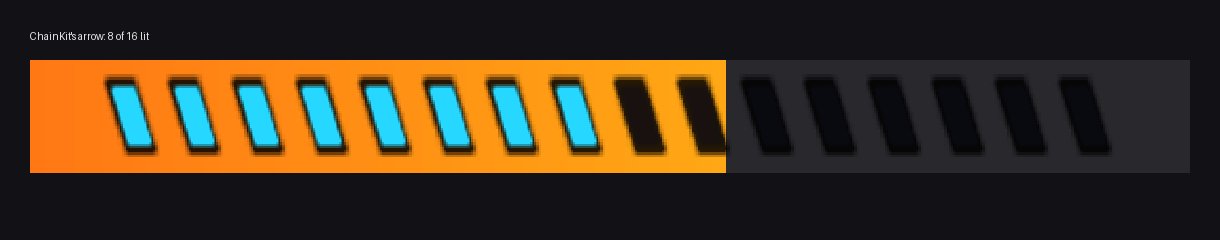
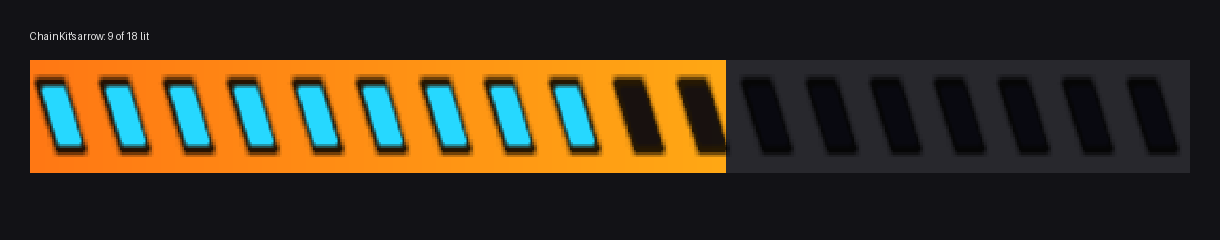
Arrow row fills the boost bar edge to edge (count and margin are settings)
The 16 arrows started 19.5 and ended 19.5 design units inside the 290-unit bar.
The row now spans the bar: first / last arrow 'arrow_margin' (default 2) from
the bar's ends, 'arrow_count' arrows (default 18, about the old pitch), pitch
computed from the bar rectangle the game passes (so it follows any HUD scale /
widescreen patch). The lit share is unchanged (lit = arrows / pool x count).
Lit and unlit colours are not swapped: in the user's screenshot all arrows were
lit; the ones under the bar's fire overlay look white.

Data version 10. Tests: positions edge to edge, a Revenge-like 16 / 19.5 layout,
count capped at 32; README preview with 18 arrows.

Changed region(s): [[0.0, 0.2917, 0.5295, 0.6708], [0.9033, 0.3208, 0.9656, 0.6417]]

diff --git a/chainkit/cave.py b/chainkit/cave.py
@@ -70,7 +70,7 @@ NAMES = 0xEF0            # message names (ASCII; after the mode table)
 SCORN = 0x3C0            # shadow quad corners (32 bytes)
 MSGTAB = 0x400           # relocated + extended message table
 MAGIC = b"CHAINKIT"
-VERSION = 9              # 9: SUPERCHARGE LOST always; 8: release = no button while the player drives; 7: debug message ids moved to free ids; 6: autopilot boost start refused; 3: per-mode switches, per-action fill factors, label/hint switches; 4: BTN hook;
+VERSION = 10             # 10: arrow count / margins (edge to edge); 9: SUPERCHARGE LOST always; 8: release = no button while the player drives; 7: debug message ids moved to free ids; 6: autopilot boost start refused; 3: per-mode switches, per-action fill factors, label/hint switches; 4: BTN hook;
                          # 5: button read from the pad, checked every frame
 
 # (name, offset in G_TUNE block, type, default, help)
@@ -101,6 +101,8 @@ TUNABLES = [
     ("arrows_slam", 0xE48 - G - G_TUNE, "f", 1.0 / 6, "arrows per SLAM while supercharge-boosting (fraction of the arrows)"),
     ("arrows_takedown", 0xE74 - G - G_TUNE, "f", 1.0, "arrows per TAKEDOWN while supercharged (fraction of the arrows)"),
     ("modes", 0xE70 - G - G_TUNE, "i", 0xFF, "modes with the mod (bits, see MODES); Crash mode and online are always vanilla"),
+    ("arrow_count", 0xE78 - G - G_TUNE, "i", 18, "number of arrows drawn over the bar (look only; 18 fill it edge to edge)"),
+    ("arrow_margin", 0xE7C - G - G_TUNE, "f", 2.0, "space between the bar's ends and the first / last arrow (bar design units of 290)"),
     ("full_hold_time", 0x2B8 - G - G_TUNE, "f", 0.0, "a bar that becomes full while boosting supercharges after this many seconds (0 = at once)"),
     ("resuper_cooldown", 0x2BC - G - G_TUNE, "f", 3.0, "no new supercharge for this many seconds after one was lost"),
     ("full_threshold", 0x2C0 - G - G_TUNE, "f", 0.98, "the bar counts as full from this fraction of max (boosting drains every frame after the award)"),
@@ -1123,10 +1125,15 @@ def build_code(lay):
         a.lw("t6", 0, "t3"); a.sw("t6", 0, "t4"); a.addiu("t3", "t3", 4); a.addiu("t5", "t5", -1)
         a.bnez("t5", "H_tcopy"); a.addiu("t4", "t4", 4)
     a.jal(A["SETTEX"]); a.nop()
-    # lit = arrows / (half * max) * 16
+    # n = arrow_count (1..32); lit = arrows / (half * max) * n
+    a.mem("lw", "t2", A["REGION"] + 0xE78, "t2")
+    a.slti("t1", "t2", 1); a.beqz("t1", "H_n1"); a.nop(); a.li("t2", 1)
+    a.label("H_n1")
+    a.slti("t1", "t2", 33); a.bnez("t1", "H_n2"); a.nop(); a.li("t2", 32)
+    a.label("H_n2")
     a.lwc1("f0", S_ARROWS, "s4"); a.lwc1("f1", B_MAX + C_BOOST, "s1"); a.gfloat("f2", 0x18); a.mul_s("f1", "f1", "f2")
     a.mtc1("zero", "f2"); a.nop(); a.c_lt_s("f2", "f1"); a.bc1f("H_ret"); a.nop()
-    a.div_s("f0", "f0", "f1"); a.mem("lwc1", "f1", a.gaddr(G_DESIGN + 28), "t9"); a.mul_s("f0", "f0", "f1")
+    a.div_s("f0", "f0", "f1"); a.mtc1("t2", "f1"); a.nop(); a.cvt_s_w("f1", "f1"); a.mul_s("f0", "f0", "f1")
     a.cvt_w_s("f0", "f0"); a.mfc1("s3", "f0")
     # scales
     a.la("s4", a.gaddr(0))                                   # s4 = globals base from here on
@@ -1144,10 +1151,22 @@ def build_code(lay):
     for k, (x, y) in enumerate((("f3", "f4"), ("f0", "f4"), ("f3", "f2"), ("f0", "f2"))):
         a.swc1(x, SC + 8 * k, "s4"); a.swc1(y, SC + 8 * k + 4, "s4")
     a.lwc1("f22", G_DESIGN + 16, "s4"); a.mul_s("f22", "f22", "f21"); a.lwc1("f1", 4, "s0"); a.add_s("f22", "f22", "f1")
+    # row layout, edge to edge: x0 = margin + aw/2, dx = (W - 2 margin - aw) / (n - 1) (design units; runtime scratch)
+    a.mem("lw", "t2", A["REGION"] + 0xE78, "t2")
+    a.slti("t1", "t2", 2); a.beqz("t1", "H_n3"); a.nop(); a.li("t2", 2)
+    a.label("H_n3")
+    a.slti("t1", "t2", 33); a.bnez("t1", "H_n4"); a.nop(); a.li("t2", 32)
+    a.label("H_n4")
+    a.addiu("t2", "t2", -1); a.mtc1("t2", "f2"); a.nop(); a.cvt_s_w("f2", "f2")               # n - 1
+    a.mem("lwc1", "f3", A["REGION"] + 0xE7C, "t1")                                          # margin
+    a.lwc1("f4", G_DESIGN + 20, "s4"); a.lif("f5", 0.5); a.mul_s("f5", "f4", "f5")          # aw / 2
+    a.add_s("f6", "f3", "f5"); a.swc1("f6", G_SPOS, "s4")                                    # x0
+    a.lwc1("f6", G_DESIGN + 0, "s4"); a.sub_s("f6", "f6", "f3"); a.sub_s("f6", "f6", "f3"); a.sub_s("f6", "f6", "f4")
+    a.div_s("f6", "f6", "f2"); a.swc1("f6", G_SPOS + 4, "s4")                                # dx
     a.li("s1", 0)
     a.label("H_loop")
     a.mtc1("s1", "f0"); a.nop(); a.cvt_s_w("f0", "f0")
-    a.lwc1("f1", G_DESIGN + 12, "s4"); a.mul_s("f0", "f0", "f1"); a.lwc1("f1", G_DESIGN + 8, "s4"); a.add_s("f0", "f0", "f1")
+    a.lwc1("f1", G_SPOS + 4, "s4"); a.mul_s("f0", "f0", "f1"); a.lwc1("f1", G_SPOS, "s4"); a.add_s("f0", "f0", "f1")
     a.mul_s("f0", "f0", "f20"); a.lwc1("f1", 0, "s0"); a.add_s("f0", "f0", "f1")
     a.swc1("f0", G_POS, "s4"); a.swc1("f22", G_POS + 4, "s4")
     a.lq("a0", G_SHADOW, "s4")                               # outline / shadow behind the arrow
@@ -1160,7 +1179,10 @@ def build_code(lay):
     a.label("H_draw")
     a.addiu("a1", "s4", G_POS); a.li("a2", 4); a.addiu("a3", "s4", G_CORN); a.addiu("t0", "s4", G_UVS)
     a.jal(A["QUAD"]); a.nop()
-    a.addiu("s1", "s1", 1); a.slti("t1", "s1", 16); a.bnez("t1", "H_loop"); a.nop()
+    a.mem("lw", "t2", A["REGION"] + 0xE78, "t2")
+    a.slti("t1", "t2", 33); a.bnez("t1", "H_n5"); a.nop(); a.li("t2", 32)
+    a.label("H_n5")
+    a.addiu("s1", "s1", 1); a.slt("t1", "s1", "t2"); a.bnez("t1", "H_loop"); a.nop()
     a.label("H_ret")
     for k, fr in enumerate(("f20", "f21", "f22", "f23")):
         a.lwc1(fr, 0x54 + 4 * k, "sp")

diff --git a/chainkit/settings.py b/chainkit/settings.py
@@ -155,7 +155,7 @@ GROUPS = [
              pct(0, 300)),
         Item("fill_w_crash_escape", "Crash escape", "Getting away after a near-crash.", pct(0, 300)),
     ]),
-    ("Arrows (while supercharge-boosting)", "The 16 arrows over the bar. The more are lit when the bar runs "
+    ("Arrows (while supercharge-boosting)", "The arrows over the bar. The more are lit when the bar runs "
                                             "empty, the more it refills; all lit = BURNOUT and the chain goes up.", [
         Item("arrow_gain", "All actions", "Speed for every action at once.", pct(25, 400)),
         Item("w_near_miss", "Near misses for all arrows", "How many near misses light all arrows.",
@@ -185,7 +185,7 @@ GROUPS = [
              "example a boost the game keeps going after a takedown or a Perfect Start) stops at once. Off: "
              "Revenge's own behaviour (a tap gives a short boost, a Perfect Start boosts on its own).", invert=True,
              cli="only_boost_while_held"),
-        flag("arrows", "Arrows", "Draw the 16 arrows over the bar. Off: no arrows are drawn and none are lit, "
+        flag("arrows", "Arrows", "Draw the arrows over the bar. Off: no arrows are drawn and none are lit, "
              "so every refill is partial."),
         flag("show_size_label", "Show the x2 - x4 bar-size label", "Revenge's label at the end of the bar. "
              "Hidden by default (the bar is always x4 and the label covered the arrows)."),
@@ -199,6 +199,11 @@ GROUPS = [
              "For testing: pop-ups name every boost the mod stops or refuses. BOOST STOP: TAP END = you let go "
              "(a tap ends at once); BOOST BLOCKED: GAME START = the game (takedown autopilot) tried to boost without "
              "your button; BOOST STOP: PAD / AUTO = a boost the button did not back was stopped."),
+        Item("arrow_count", "Number of arrows", "How many arrows are drawn over the bar. Only the look: the "
+             "share of the arrows each action lights stays the same. 18 fill the bar edge to edge.",
+             Unit(lambda r: r, lambda u: int(u), "%d", 8, 32)),
+        Item("arrow_margin", "Arrow row margin", "Space between the ends of the bar and the first / last arrow "
+             "(the bar is 290 units long).", Unit(lambda r: r, lambda u: u, "%.1f", 0, 40)),
         Item("lit_rgba", "Lit arrow colour", "Colour of a lit arrow (Dominator: cyan)."),
         Item("dark_rgba", "Unlit arrow colour", "Colour of an unlit arrow."),
         Item("shadow_rgba", "Arrow outline", "Dark outline drawn behind every arrow."),
@@ -257,7 +262,8 @@ LIMITS = dict(drain_mult=(0.1, 20.0), refill_cap=(0.01, 1.0), half=(0.01, 1.0), 
               slow_speed=(0.0, 150.0), slow_time=(0.0, 120.0), anim_time=(0.0, 10.0), takedown_grace=(0.0, 60.0),
               resuper_cooldown=(0.0, 60.0), full_hold_time=(0.0, 60.0), fill_mult=(0.0, 20.0),
               arrow_gain=(0.0, 20.0), arrows_takedown=(0.0, 1.0), domination_chain=(1, 9999),
-              wow_chain=(1, 9999), flags=(0, ALL_FLAGS), modes=(0, ALL_MODES), arrow_tex_slot=(12, 28))
+              wow_chain=(1, 9999), flags=(0, ALL_FLAGS), modes=(0, ALL_MODES), arrow_tex_slot=(12, 28),
+              arrow_count=(1, 32), arrow_margin=(0.0, 100.0))
 
 
 def check(values):

diff --git a/tests/test_cave.py b/tests/test_cave.py
@@ -381,17 +381,20 @@ def test_hud_label_tint_and_arrows():
     rect = 0x62000
     for k, x in enumerate((100.0, 400.0, 290.0, 28.0)):
         g.cpu.m.wf32(rect + 4 * k, x)
-    g.cpu.m.wf32(g.st(cave.S_ARROWS), 100.0)                # half of the pool -> 8 lit arrows
+    g.cpu.m.wf32(g.st(cave.S_ARROWS), 100.0)                # half of the pool -> 9 of 18 arrows lit
     g.run("HUDLBL", a0=rect, a1=4, s2=hud)
     lab = [c for c in g.calls if c[0] == "label"][0]
     assert lab[2] == 1                                   # bar-size label hidden (segment count 1)
     assert g.f(A["BARCOL"] + 16 * 3) == 3.0
-    assert g.names().count("quad") == 32
+    n = TUNE["arrow_count"]
+    assert g.names().count("quad") == 2 * n
     shadow, lit, dark = [tuple(round(x, 3) for x in TUNE[k]) for k in ("shadow_rgba", "lit_rgba", "dark_rgba")]
     cols = [tuple(round(x, 3) for x in q[0]) for q in g.quads]
-    assert cols[0::2] == [shadow] * 16 and cols[1::2] == [lit] * 8 + [dark] * 8
+    assert cols[0::2] == [shadow] * n and cols[1::2] == [lit] * (n // 2) + [dark] * (n - n // 2)
     xs = [q[1][0] for q in g.quads[1::2]]
-    assert xs[0] == pytest.approx(126.0) and xs[15] == pytest.approx(126 + 15 * 15.9)
+    # edge to edge: first / last arrow 'arrow_margin' from the bar's ends (arrow 13 units wide, bar 290)
+    m = TUNE["arrow_margin"]
+    assert xs[0] == pytest.approx(100 + m + 6.5, abs=1e-3) and xs[-1] == pytest.approx(100 + 290 - m - 6.5, abs=1e-3)
     g.calls.clear(); g.quads.clear(); g.cpu.m.w32(g.st(cave.S_CHAIN), 7)
     g.run("HUDLBL", a0=rect, a1=4, s2=hud)                  # chain running: still no label (pop-ups show it)
     lab = [c for c in g.calls if c[0] == "label"][0]
@@ -764,3 +767,20 @@ def test_cheat_arrow_texture_is_copied_before_drawing():
     g.cpu.stubs[A["SETTEX"]] = lambda cpu: seen.append(cpu.m.read(rec + cave.TEX_FROM, len(TEXBLOB)))
     g.run("HUDLBL", a0=0x62000, a1=4, s2=hud)
     assert seen == [TEXBLOB]
+
+
+def test_arrow_count_and_margin_settings():
+    g = supercharged(); g.boosting(True)
+    hud = 0x60000; g.cpu.m.w32(hud + cave.C_HUDCAR, CAR)
+    rect = 0x62000
+    for k, x in enumerate((0.0, 400.0, 580.0, 56.0)):                   # a bar drawn twice as large
+        g.cpu.m.wf32(rect + 4 * k, x)
+    g.cpu.m.w32(cave.tune_addr(LAY, "arrow_count")[0], 16)
+    g.cpu.m.wf32(cave.tune_addr(LAY, "arrow_margin")[0], 19.5)        # Revenge-like layout of v1-v17
+    g.cpu.m.wf32(g.st(cave.S_ARROWS), 200.0)
+    g.run("HUDLBL", a0=rect, a1=4, s2=hud)
+    xs = [q[1][0] for q in g.quads[1::2]]
+    assert len(xs) == 16 and xs[0] == pytest.approx(2 * 26.0, abs=1e-3) and xs[-1] == pytest.approx(2 * (290 - 26.0), abs=1e-3)
+    g.calls.clear(); g.quads.clear(); g.cpu.m.w32(cave.tune_addr(LAY, "arrow_count")[0], 99)
+    g.run("HUDLBL", a0=rect, a1=4, s2=hud)
+    assert len(g.quads) == 64                                         # capped at 32 arrows

diff --git a/README.md b/README.md
@@ -34,7 +34,7 @@ set built in — and lets you tune every part of it.
 |---|---|
 | **Normal bar** | Driving skills fill your boost bar as in Revenge — near misses, oncoming, drifting, air, tailgating, slams … You can boost on it as usual. The bar is always the full 4 segments (Dominator); Revenge's *x2 – x4* label is hidden. |
 | **Supercharge** | A **full** bar becomes **supercharged**: it turns blue, *SUPERCHARGE READY!* pops up and a sound plays. A **takedown** supercharges it at once. |
-| **Arrows** | While you boost on a supercharged bar it drains 3× faster, and 16 **arrows** over the bar light up from everything in the skill list (near miss, oncoming, drift, air, checked traffic, tailgating, grinding, rubbing). A takedown lights all of them. |
+| **Arrows** | While you boost on a supercharged bar it drains 3× faster, and a row of **arrows** over the bar light up from everything in the skill list (near miss, oncoming, drift, air, checked traffic, tailgating, grinding, rubbing). A takedown lights all of them. |
 | **BURNOUT!** | When the supercharged bar runs empty it refills to half plus the lit arrows. All arrows lit = a full refill = a **BURNOUT**: the chain goes up (*BURNOUT! x2*, *x3* …, *BURNOUT DOMINATION!* at x10) and you keep boosting. |
 | **Partial refill** | Not all arrows lit: the bar refills to at most 80 % and the supercharge is lost (*SUPERCHARGE LOST*). |
 | **Losing it** | Letting go of the boost button, wrecking, a hit while you are not boosting, or boosting below 97 km/h (60 mph) for 3 seconds ends the supercharge and the chain. While you supercharge-boost, a hit never takes the bar below half, and the takedown camera does not count as letting go - but letting go once you drive again does (0.3 s to press boost again after the camera). |
@@ -52,7 +52,7 @@ MusicKit songs, CarKit cars — or the Burnout Chain mod itself (then its settin
 [Change the settings later](#change-the-settings-later)).
 
 ### Step 2 — Arrow art (optional)
-**You can skip this step.** It only changes how the 16 arrows look — the gameplay is the same. Without it the
+**You can skip this step.** It only changes how the arrows look — the gameplay is the same. Without it the
 arrows use **ChainKit's arrow** (below).
 
 ![ChainKit's arrow on the boost bar: lit and unlit](docs/images/chainkit_arrows.png)
@@ -186,7 +186,7 @@ an empty bar.
 | Takedown lights | 100 % of the arrows |
 
 ### Display and sound
-**Bar fire while the bar fills up** (off: the fire on the boost bar shows only while you really boost; Revenge also shows it while a refill is animated), **Debug: show stopped boosts** (pop-ups for testing), pop-up messages, sounds, the blue bar, the arrows (each can be switched off), **Show the x2 – x4 bar-size label**
+**Number of arrows** (18: the row fills the bar edge to edge) and **arrow row margin**, **Bar fire while the bar fills up** (off: the fire on the boost bar shows only while you really boost; Revenge also shows it while a refill is animated), **Debug: show stopped boosts** (pop-ups for testing), pop-up messages, sounds, the blue bar, the arrows (each can be switched off), **Show the x2 – x4 bar-size label**
 and **Show the PRESS R1 TO BOOST hint** (both hidden by default), and the colours of lit arrows, unlit arrows and
 their outline.
 
